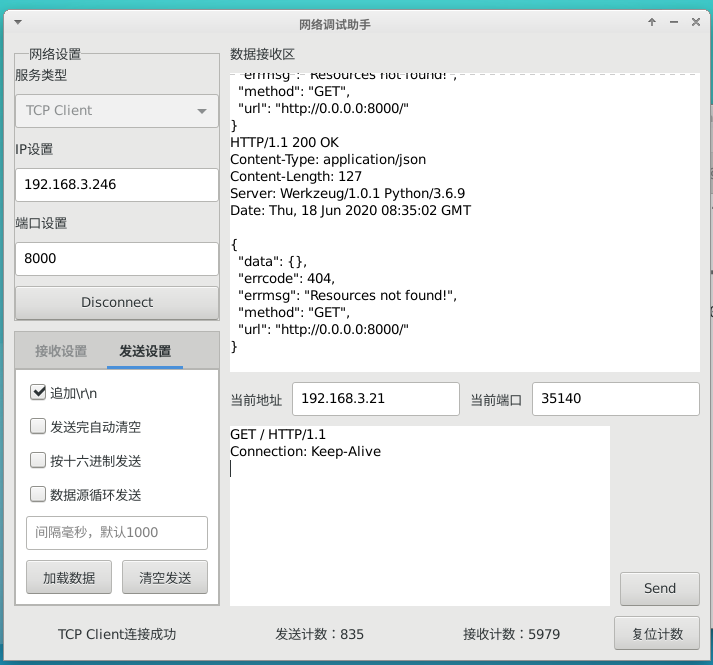
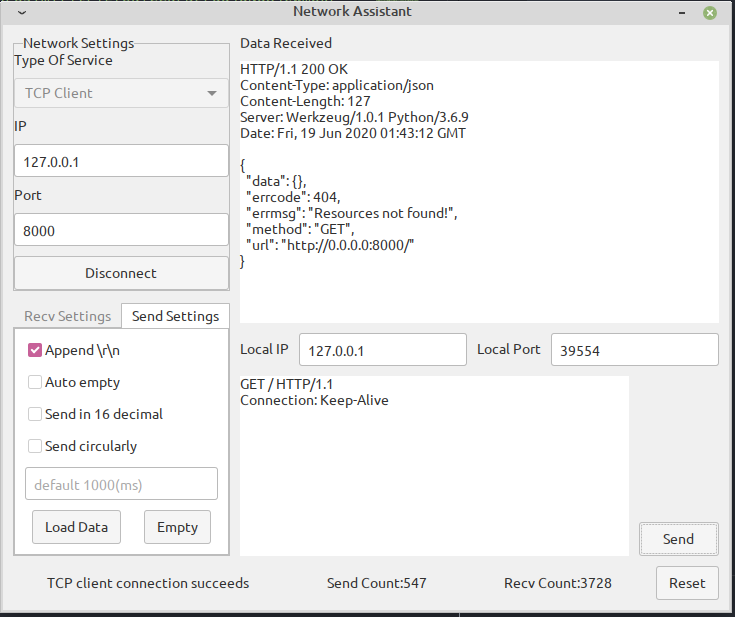
update

Changed region(s): [[0.0, 0.0, 1.0, 1.0]]

diff --git a/README.md b/README.md
@@ -1,28 +1,18 @@
-# 网络调试助手
-基于Gtk3的Go语言绑定实现。
-### 特性
+# Network Assistant
+
+Network assistant program based on Gotk3
+
 - [x] TCP Client
 - [x] TCP Server
 - [x] UDP Client
 - [x] UDP Server
-- [x] 接收转向文件
-- [x] 显示时间且换行
-- [x] 十六进制显示
-- [x] 暂停接收
-- [x] 保存数据
-- [x] 清空显示
-- [x] 从文件加载数据
-- [x] 发送完自动清空
-- [x] 按十六进制发送
-- [x] 数据源循环发送
 
-### 运行本项目
-从release下载`baloneo.netassistant`二进制文件，增加可执行权限，直接运行即可。
 
-### 构建本项目
+### Build
 ```
 go build .
 ```
 
 ![APP](./demo.png)
 
+![APP](./demo2.png)
